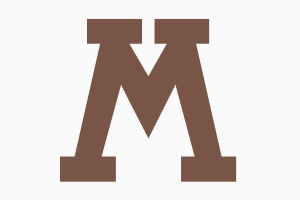
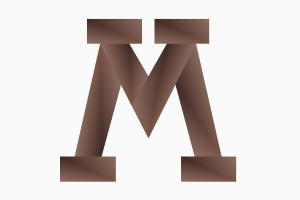
Lab6: vertex colors

diff --git a/Lab6-WebGL2D/scripts/utils.js b/Lab6-WebGL2D/scripts/utils.js
@@ -16,7 +16,7 @@ exported
  */
 function loadShader(gl, shaderSource, shaderType) {
     // Create the shader object
-    var shader = gl.createShader(shaderType);
+    let shader = gl.createShader(shaderType);
 
     // Load the shader source
     gl.shaderSource(shader, shaderSource);
@@ -25,10 +25,10 @@ function loadShader(gl, shaderSource, shaderType) {
     gl.compileShader(shader);
 
     // Check the compile status
-    var compiled = gl.getShaderParameter(shader, gl.COMPILE_STATUS);
+    let compiled = gl.getShaderParameter(shader, gl.COMPILE_STATUS);
     if (!compiled) {
         // Something went wrong during compilation; get the error
-        var lastError = gl.getShaderInfoLog(shader);
+        let lastError = gl.getShaderInfoLog(shader);
         console.error("Error compiling shader '" + shader + "':" + lastError);
         gl.deleteShader(shader);
         return null;
@@ -43,35 +43,37 @@ function loadShader(gl, shaderSource, shaderType) {
  * @param {WebGLShader[]} shaders The shaders to attach
  * @param {string[]} [opt_attribs] An array of attribs names. Locations will be assigned by index if not passed in
  * @param {number[]} [opt_locations] The locations for the. A parallel array to opt_attribs letting you assign locations.
- * @param {module:webgl-utils.ErrorCallback} opt_errorCallback callback for errors. By default it just prints an error to the console
- *        on error. If you want something else pass an callback. It's passed an error message.
  */
-function createProgram(
-    gl, shaders, opt_attribs, opt_locations, opt_errorCallback) {
-    var program = gl.createProgram();
-    shaders.forEach(function (shader) {
+function createProgram(gl, shaders, opt_attribs, opt_locations) {
+    let program = gl.createProgram();
+
+    shaders.forEach((shader) => {
         gl.attachShader(program, shader);
     });
+
     if (opt_attribs) {
-        opt_attribs.forEach(function (attrib, ndx) {
+        opt_attribs.forEach((attrib, ndx) => {
             gl.bindAttribLocation(
                 program,
                 opt_locations ? opt_locations[ndx] : ndx,
-                attrib);
+                attrib
+            );
         });
     }
+
     gl.linkProgram(program);
 
     // Check the link status
-    var linked = gl.getProgramParameter(program, gl.LINK_STATUS);
+    let linked = gl.getProgramParameter(program, gl.LINK_STATUS);
     if (!linked) {
         // something went wrong with the link
-        var lastError = gl.getProgramInfoLog(program);
-        console.error("Error in program linking:" + lastError);
+        let lastError = gl.getProgramInfoLog(program);
+        console.error("Error in program linking:", lastError);
 
         gl.deleteProgram(program);
         return null;
     }
+
     return program;
 }
 
@@ -81,35 +83,35 @@ function createProgram(
  * @param {string} scriptId The id of the script tag.
  * @param {number} opt_shaderType The type of shader. If not passed in it will
  *     be derived from the type of the script tag.
- * @param {module:webgl-utils.ErrorCallback} opt_errorCallback callback for errors.
  * @return {WebGLShader} The created shader.
  */
-function createShaderFromScript(
-    gl, scriptId, opt_shaderType, opt_errorCallback) {
-    var shaderSource = "";
-    var shaderType;
-    var shaderScript = document.getElementById(scriptId);
+function createShaderFromScript(gl, scriptId, opt_shaderType) {
+    let shaderSource = "";
+    let shaderType;
+    let shaderScript = document.getElementById(scriptId);
+
     if (!shaderScript) {
-        throw ("Error: unknown script element" + scriptId);
+        throw ("Error: unknown script element " + scriptId);
     }
     shaderSource = shaderScript.text;
 
     if (!opt_shaderType) {
+
         if (shaderScript.type === "x-shader/x-vertex") {
             shaderType = gl.VERTEX_SHADER;
-        } else if (shaderScript.type === "x-shader/x-fragment") {
+        }
+        else if (shaderScript.type === "x-shader/x-fragment") {
             shaderType = gl.FRAGMENT_SHADER;
-        } else if (shaderType !== gl.VERTEX_SHADER && shaderType !== gl.FRAGMENT_SHADER) {
+        }
+        else if (shaderType !== gl.VERTEX_SHADER && shaderType !== gl.FRAGMENT_SHADER) {
             throw ("Error: unknown shader type");
         }
     }
 
-    return loadShader(
-        gl, shaderSource, opt_shaderType ? opt_shaderType : shaderType,
-        opt_errorCallback);
+    return loadShader(gl, shaderSource, opt_shaderType ? opt_shaderType : shaderType);
 }
 
-var defaultShaderType = [
+let defaultShaderType = [
     "VERTEX_SHADER",
     "FRAGMENT_SHADER",
 ];
@@ -124,16 +126,14 @@ var defaultShaderType = [
  *        vertex shader, the second the fragment shader.
  * @param {string[]} [opt_attribs] An array of attribs names. Locations will be assigned by index if not passed in
  * @param {number[]} [opt_locations] The locations for the. A parallel array to opt_attribs letting you assign locations.
- * @param {module:webgl-utils.ErrorCallback} opt_errorCallback callback for errors. By default it just prints an error to the console
- *        on error. If you want something else pass an callback. It's passed an error message.
  * @return {WebGLProgram} The created program.
  */
-function createProgramFromScripts(
-    gl, shaderScriptIds, opt_attribs, opt_locations, opt_errorCallback) {
-    var shaders = [];
-    for (var ii = 0; ii < shaderScriptIds.length; ++ii) {
-        shaders.push(createShaderFromScript(
-            gl, shaderScriptIds[ii], gl[defaultShaderType[ii]], opt_errorCallback));
+function createProgramFromScripts(gl, shaderScriptIds, opt_attribs, opt_locations) {
+    let shaders = [];
+
+    for (let i = 0; i < shaderScriptIds.length; ++i) {
+        shaders.push(createShaderFromScript(gl, shaderScriptIds[i], gl[defaultShaderType[i]]));
     }
-    return createProgram(gl, shaders, opt_attribs, opt_locations, opt_errorCallback);
+
+    return createProgram(gl, shaders, opt_attribs, opt_locations);
 }

diff --git a/Lab6-WebGL2D/classes/Renderer.js b/Lab6-WebGL2D/classes/Renderer.js
@@ -1,7 +1,7 @@
 /* exported Renderer */
 class Renderer {
 
-    constructor(canvas, geometry, color, originTranslation, initialTranslation, primitiveType) {
+    constructor(canvas, geometry, colors, originTranslation, initialTranslation, primitiveType) {
 
         /**
         * Холст.
@@ -17,10 +17,11 @@ class Renderer {
 
         // look up where the vertex data needs to go.
         this.positionLocation = gl.getAttribLocation(program, 'a_position');
+        this.colorLocation = gl.getAttribLocation(program, 'a_vertex_color');
 
         // lookup uniforms
-        this.colorLocation = gl.getUniformLocation(program, 'u_color');
         this.matrixLocation = gl.getUniformLocation(program, 'u_matrix');
+
 
         // Create a buffer to put positions in
         this.positionBuffer = gl.createBuffer();
@@ -31,11 +32,14 @@ class Renderer {
         // Put geometry data into buffer
         this.setGeometry(geometry);
 
+        this.colorBuffer = gl.createBuffer();
+        gl.bindBuffer(gl.ARRAY_BUFFER, this.colorBuffer);
+        this.setColors(colors);
+
         // Transformations
         this.initialTranslation = initialTranslation || [0, 0];
         this.resetTransform();
         this.originTranslation = originTranslation || [0, 0];
-        this.color = color;
 
         this.resizeCanvasToDisplaySize();
 
@@ -64,13 +68,39 @@ class Renderer {
 
     setGeometry(geometry) {
         this.geometry = geometry;
-        this.gl.bufferData(this.gl.ARRAY_BUFFER, geometry, this.gl.STATIC_DRAW);
+        this.gl.bufferData(this.gl.ARRAY_BUFFER, new Float32Array(geometry), this.gl.STATIC_DRAW);
+    }
+
+    setColors(colors) {
+        let extrapolatedColors = [];
+
+        for(let i = 0; i < this.geometry.length / 2; i += colors.length / 4) {
+            for(let j = 0; j < colors.length; j += 4) {
+                extrapolatedColors.push(colors[j]);
+                extrapolatedColors.push(colors[j + 1]);
+                extrapolatedColors.push(colors[j + 2]);
+                extrapolatedColors.push(colors[j + 3]);
+            }
+        }
+
+        this.colors = new Float32Array(extrapolatedColors);
+        this.gl.bufferData(this.gl.ARRAY_BUFFER, new Float32Array(this.colors), this.gl.STATIC_DRAW);
     }
 
     resizeCanvasToDisplaySize() {
         let canvas = this.gl.canvas;
         canvas.width = canvas.clientWidth;
         canvas.height = canvas.clientHeight;
+    }
+
+    setVertexAttrib(location, buffer, size, type, normalize, stride, offset) {
+        let gl = this.gl;
+        // Turn on the attribute
+        gl.enableVertexAttribArray(location);
+        // Bind the position buffer.
+        gl.bindBuffer(gl.ARRAY_BUFFER, buffer);
+        // Tell the attribute how to get data out of positionBuffer (ARRAY_BUFFER)
+        gl.vertexAttribPointer(location, size, type, normalize, stride, offset);
     }
 
     drawScene() {
@@ -86,24 +116,20 @@ class Renderer {
         // Tell it to use our program (pair of shaders)
         gl.useProgram(program);
 
-        // Turn on the attribute
-        gl.enableVertexAttribArray(this.positionLocation);
-
-        // Bind the position buffer.
-        gl.bindBuffer(gl.ARRAY_BUFFER, this.positionBuffer);
-
-        // Tell the attribute how to get data out of positionBuffer (ARRAY_BUFFER)
         {
             let size = 2; // 2 components per iteration
             let type = gl.FLOAT; // the data is 32bit floats
             let normalize = false; // don't normalize the data
             let stride = 0; // 0 = move forward size * sizeof(type) each iteration to get the next position
             let offset = 0; // start at the beginning of the buffer
-            gl.vertexAttribPointer(this.positionLocation, size, type, normalize, stride, offset);
-        }
 
-        // set the color
-        gl.uniform4fv(this.colorLocation, this.color);
+            // Position
+            this.setVertexAttrib(this.positionLocation, this.positionBuffer, size, type, normalize, stride, offset);
+
+            // Color
+            size = 4;
+            this.setVertexAttrib(this.colorLocation, this.colorBuffer, size, type, normalize, stride, offset);
+        }
 
         // Compute the matrices
         let matrix = M3Math.projection(gl.canvas.clientWidth, gl.canvas.clientHeight);

diff --git a/Lab6-WebGL2D/index.html b/Lab6-WebGL2D/index.html
@@ -50,23 +50,25 @@
     <!-- vertex shader -->
     <script id="2d-vertex-shader" type="x-shader/x-vertex">
         attribute vec2 a_position;
+        attribute vec4 a_vertex_color;
 
         uniform mat3 u_matrix;
+
+        varying lowp vec4 v_color;
 
         void main() {
             // Multiply the position by the matrix.
             gl_Position = vec4((u_matrix * vec3(a_position, 1)).xy, 0, 1);
+            v_color = a_vertex_color;
         }
     </script>
 
     <!-- fragment shader -->
     <script id="2d-fragment-shader" type="x-shader/x-fragment">
-        precision mediump float;
-
-        uniform vec4 u_color;
+        varying lowp vec4 v_color;
 
         void main() {
-            gl_FragColor = u_color;
+            gl_FragColor = v_color;
         }
     </script>
 

diff --git a/Lab6-WebGL2D/script.js b/Lab6-WebGL2D/script.js
@@ -4,7 +4,7 @@ let canvas = $('#canvas');
 let buttonClear = $('#button_clear');
 let buttonTriangles = $('#button_triangles');
 let buttonLines = $('#button_lines');
-let geometry = new Float32Array([
+let geometry = [
     // top left rect
     170, 54,
     317, 54,
@@ -77,9 +77,13 @@ let geometry = new Float32Array([
     477, 312,
     529, 121
 
-]);
+];
 
-let color = [121 / 255, 85 / 255, 72 / 255, 1];
+let color = [
+    121 / 255, 85 / 255, 72 / 255, 1,
+    141 / 255, 110 / 255, 99 / 255, 1,
+    62 / 255, 39 / 255, 35 / 255, 1
+];
 let mw = canvas.width() / 2;
 let mh = canvas.height() / 2;
 let renderer = new Renderer(canvas[0], geometry, color, [mw, mh], [mw, mh]);
